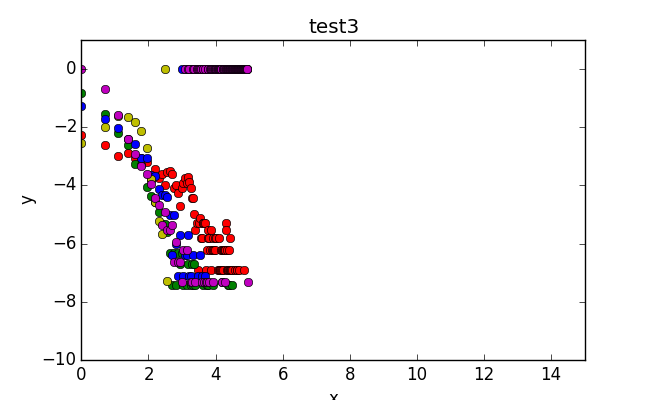
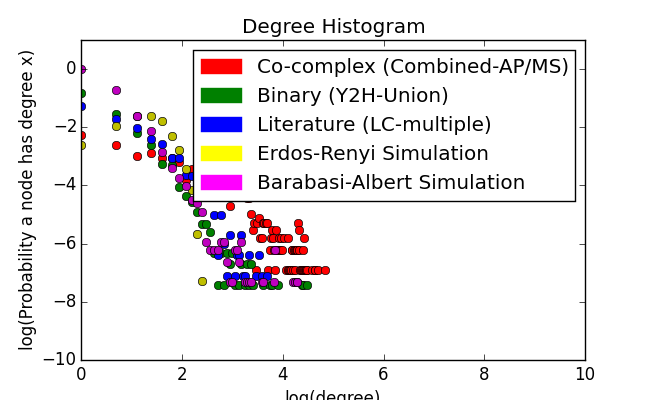
tried adding a figure legend to DH again

diff --git a/hw2.py b/hw2.py
@@ -176,10 +176,11 @@ def get_degrees(adj_ls, lcc):
         degree_dict[node] = len(get_neighbors(adj_ls,node))
     return degree_dict
 
-def get_degree_hist_data(degree_dict):
+def get_degree_hist_data(adj_ls, lcc):
     """
     returns a list whose indices are node degrees and whose entries are the number of nodes with that degree
     """
+    degree_dict = get_degrees(adj_ls, lcc)
     max_degree = 0
     for node in degree_dict:
         current_degree = degree_dict[node]
@@ -213,8 +214,7 @@ def deg_hist_ls(adj_lists, lcc_ls):
     data_ls = []
     i = 0
     while i < len(adj_lists):
-        degree_dict = get_degrees(adj_lists[i],lcc_ls[i])
-        output = get_degree_hist_data(degree_dict)
+        output = get_degree_hist_data(adj_lists[i],lcc_ls[i])
         data_ls.append(output)
         i += 1
     return data_ls
@@ -302,13 +302,14 @@ def AND_plot_ls(adj_lists, lcc_ls):
 ###################################################################
 
 
-def plot_deg_dist(prefix):
+def plot_deg_hist(prefix,data):
     """
-    example function for plotting things
+    plots the degree histogram of a single dataset
+    The dataset for this function should be obtained using get_degree_hist_data()
     """
     fig = plt.figure(figsize=(6.5,4))
-    x = list(range(1,10))
-    y = [math.exp(-a) for a in x]
+    x = list(range(1,len(data)))
+    y = data[1:]
     logx = [math.log(a) for a in x]
     logy = []
     for b in y:
@@ -316,7 +317,8 @@ def plot_deg_dist(prefix):
             logy.append(0)
         else:
             logy.append(math.log(b))
-    
+
+
     plt.subplot(1,2,1)
     plt.plot(x,y,'o-r')
     plt.plot([0,8],[0,.3],'c--')
@@ -341,9 +343,9 @@ def plot_deg_dist(prefix):
 
 
 
-def plot_DH_datasets(prefix,data_ls):
+def plot_DH_dataset(prefix,data_ls,title_ls=None):
     """
-    plots each of the Degree Histogram datasets delivered in the data list
+    plots each of the Degree Histogram datasets delivered in the data list (see degree histogram functions for details)
     """
     fig = plt.figure(figsize=(6.5,4))
     i = 0
@@ -365,21 +367,31 @@ def plot_DH_datasets(prefix,data_ls):
         logys.append(logy)
         print(len(logx),len(logy))
 
-    #plt.plot(x,y,line_list[0])
-
     plt.plot(logxs[0],logys[0],line_list[0],logxs[1],logys[1],line_list[1],logxs[2],logys[2],line_list[2],logxs[3],logys[3],line_list[3],logxs[4],logys[4],line_list[4])
     
-    plt.axis([0,15,-10,1])
-    plt.xlabel('x')
-    plt.ylabel('y')
-    plt.title(prefix)
+    if title_ls != None:
+        red_patch = mpatches.Patch(color='red',label=title_ls[0])
+        green_patch = mpatches.Patch(color='green',label=title_ls[1])
+        blue_patch = mpatches.Patch(color='blue',label=title_ls[2])
+        yellow_patch = mpatches.Patch(color='yellow',label=title_ls[3])
+        magenta_patch = mpatches.Patch(color='magenta',label=title_ls[4])
+
+    plt.legend(handles=[red_patch,green_patch,blue_patch,yellow_patch,magenta_patch])
+    
+    plt.axis([0,10,-10,1])
+    plt.xlabel('log(degree)')
+    plt.ylabel('log(Probability a node has degree x)')
+    plt.title('Degree Histogram')
     plt.savefig(prefix+'.png')
     return
 
 
+
+
 def plot_AND_data(prefix,data,avg_data):
     """
-    test function for plotting the average neighbor degree of a single graph
+    plots the average neighbor degree of a single graph
+    the dataset for this function should be obtained using get_AND_plot_data()
     """
     fig = plt.figure(figsize=(6.5,4))
     x = list(range(1,len(data)))
@@ -399,7 +411,6 @@ def plot_AND_data(prefix,data,avg_data):
     plt.legend(handles=[red_patch,blue_patch])
     
     plt.savefig(prefix+'.png')
-
     return
 
 
@@ -424,7 +435,7 @@ def plot_AND_dataset(prefix, data_ls, avg_ls, title_ls=None):
         row.plot(avg_x,avg_y,'or')
         if title_ls != None:
             row.set_title(title_ls[i])
-        row.locator_params(nbins=6,axis='y')
+        row.locator_params(nbins=5,axis='y')
             
         i += 1
     
@@ -438,43 +449,6 @@ def plot_AND_dataset(prefix, data_ls, avg_ls, title_ls=None):
 
 
 
-def plot_deg_hist(prefix,data):
-    """
-    test function for plotting the degree histogram of a single dataset
-    """
-    fig = plt.figure(figsize=(6.5,4))
-    x = list(range(1,len(data)))
-    y = data[1:]
-    logx = [math.log(a) for a in x]
-    logy = []
-    for b in y:
-        if b == 0:
-            logy.append(0)
-        else:
-            logy.append(math.log(b))
-
-
-    plt.subplot(1,2,1)
-    plt.plot(x,y,'o-r')
-    plt.plot([0,8],[0,.3],'c--')
-    plt.axis([0,10,0,.4])
-    plt.xlabel('x')
-    plt.ylabel('y')
-    plt.title(prefix)
-    
-    plt.subplot(1,2,2)
-    plt.plot(logx,logy,'s-b')
-    plt.axis([-.1,2.5,-10,1])
-    plt.xlabel('log x')
-    plt.ylabel('log y')
-    plt.title(prefix+' (log)')
-    
-    plt.tight_layout()
-    
-    plt.savefig(prefix+'.png')
-    
-    print('wrote to '+prefix+'.png')
-    return
 
 
 
@@ -517,7 +491,7 @@ def main():
     d_hist_data = deg_hist_ls(adj_lists, lcc_ls)
     
     
-    #plot_DH_datasets('test3',d_hist_data)
+    plot_DH_dataset('test3',d_hist_data,title_ls)
 
     AND_data_ls = []
     avg_data_ls = []
@@ -526,14 +500,10 @@ def main():
         AND_data, avg = get_AND_plot_data(adj_lists[i],lcc_ls[i])
         AND_data_ls.append(AND_data)
         avg_data_ls.append(avg)
-    
-    BA_AND_data, BA_avgs = get_AND_plot_data(BA_adj, BA_lcc)
+
 
     plot_AND_dataset('test5', AND_data_ls, avg_data_ls, title_ls)
     
-    print(BA_avgs)
-
-    #plot_AND_data('test4', BA_AND_data, BA_avgs)
 
 if __name__ == '__main__':
     main()
